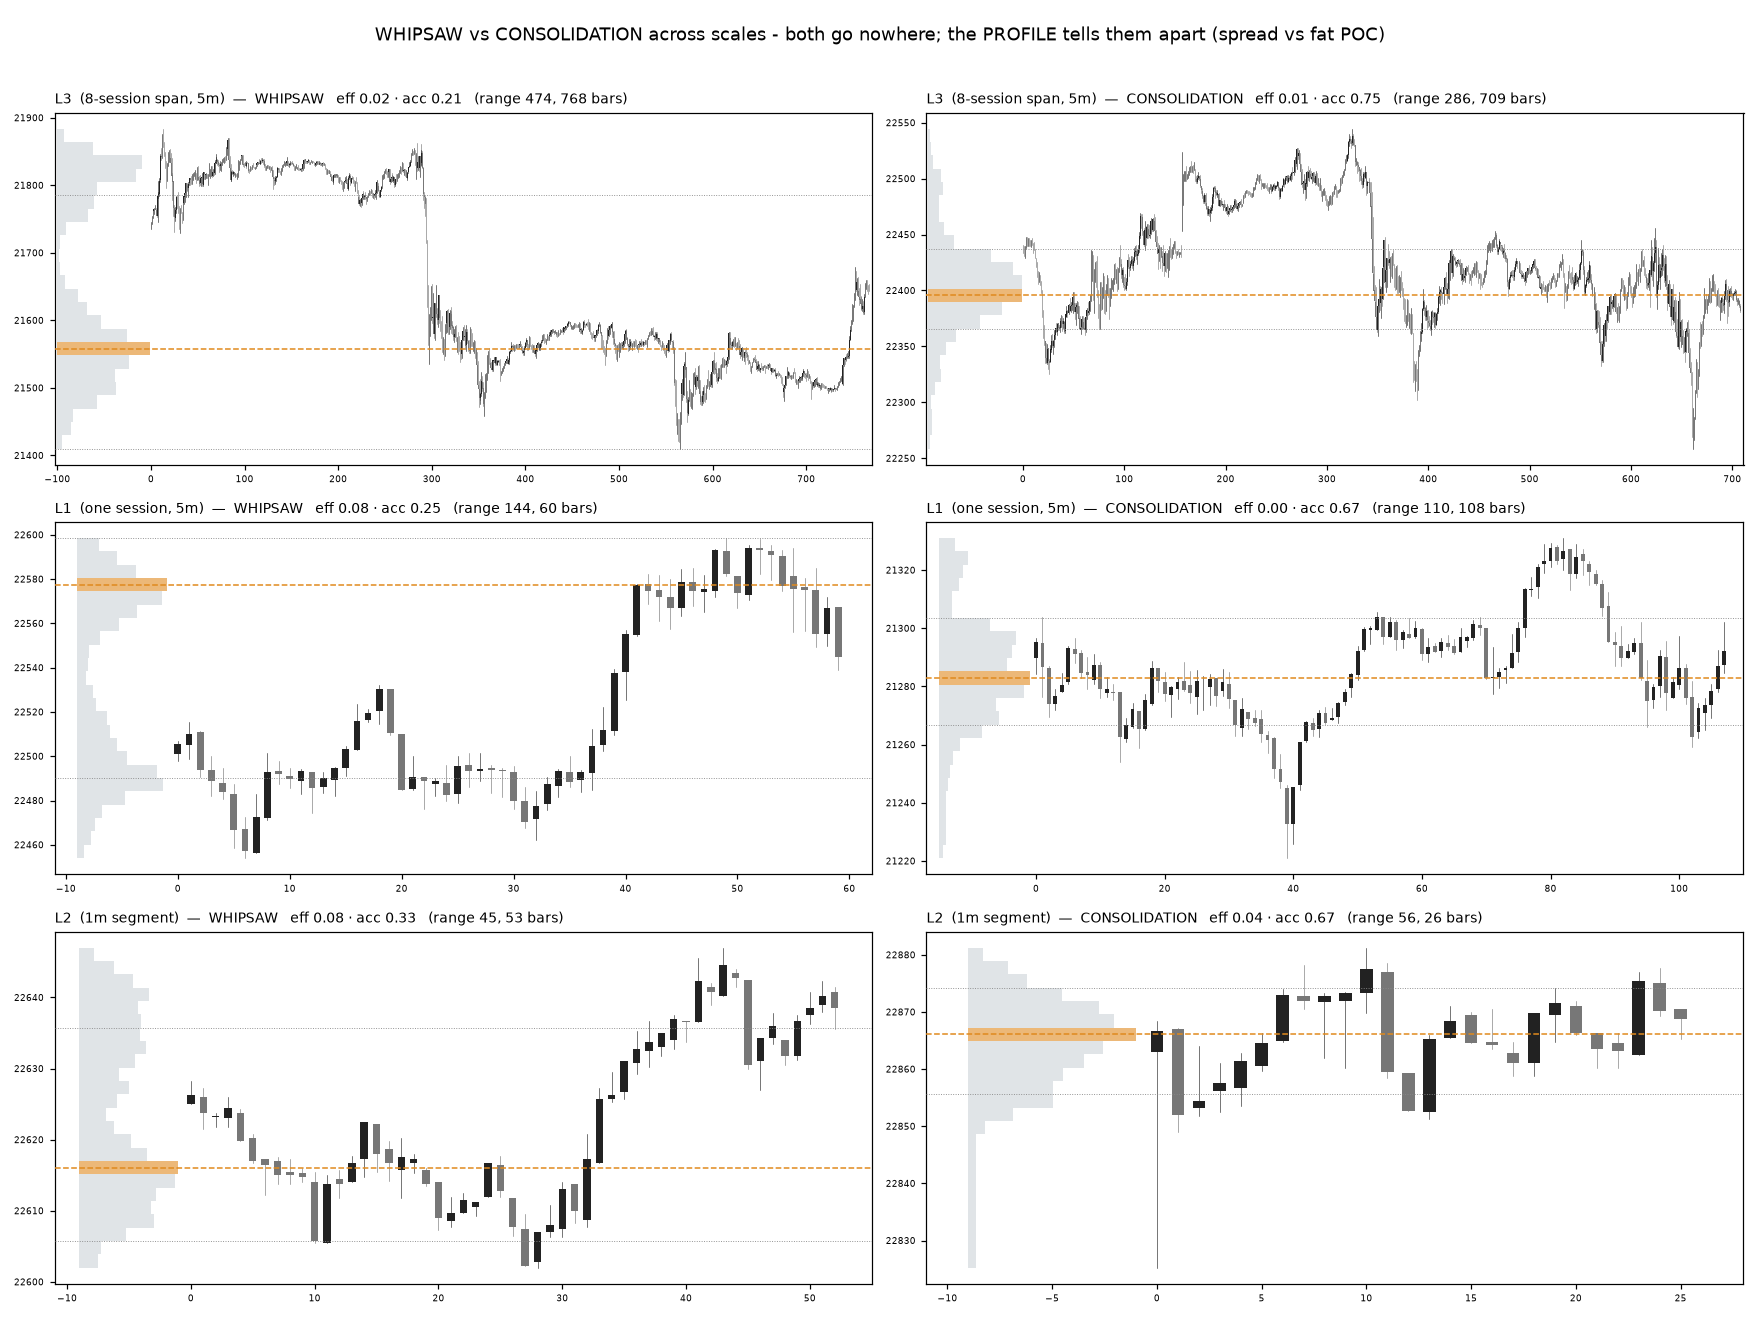
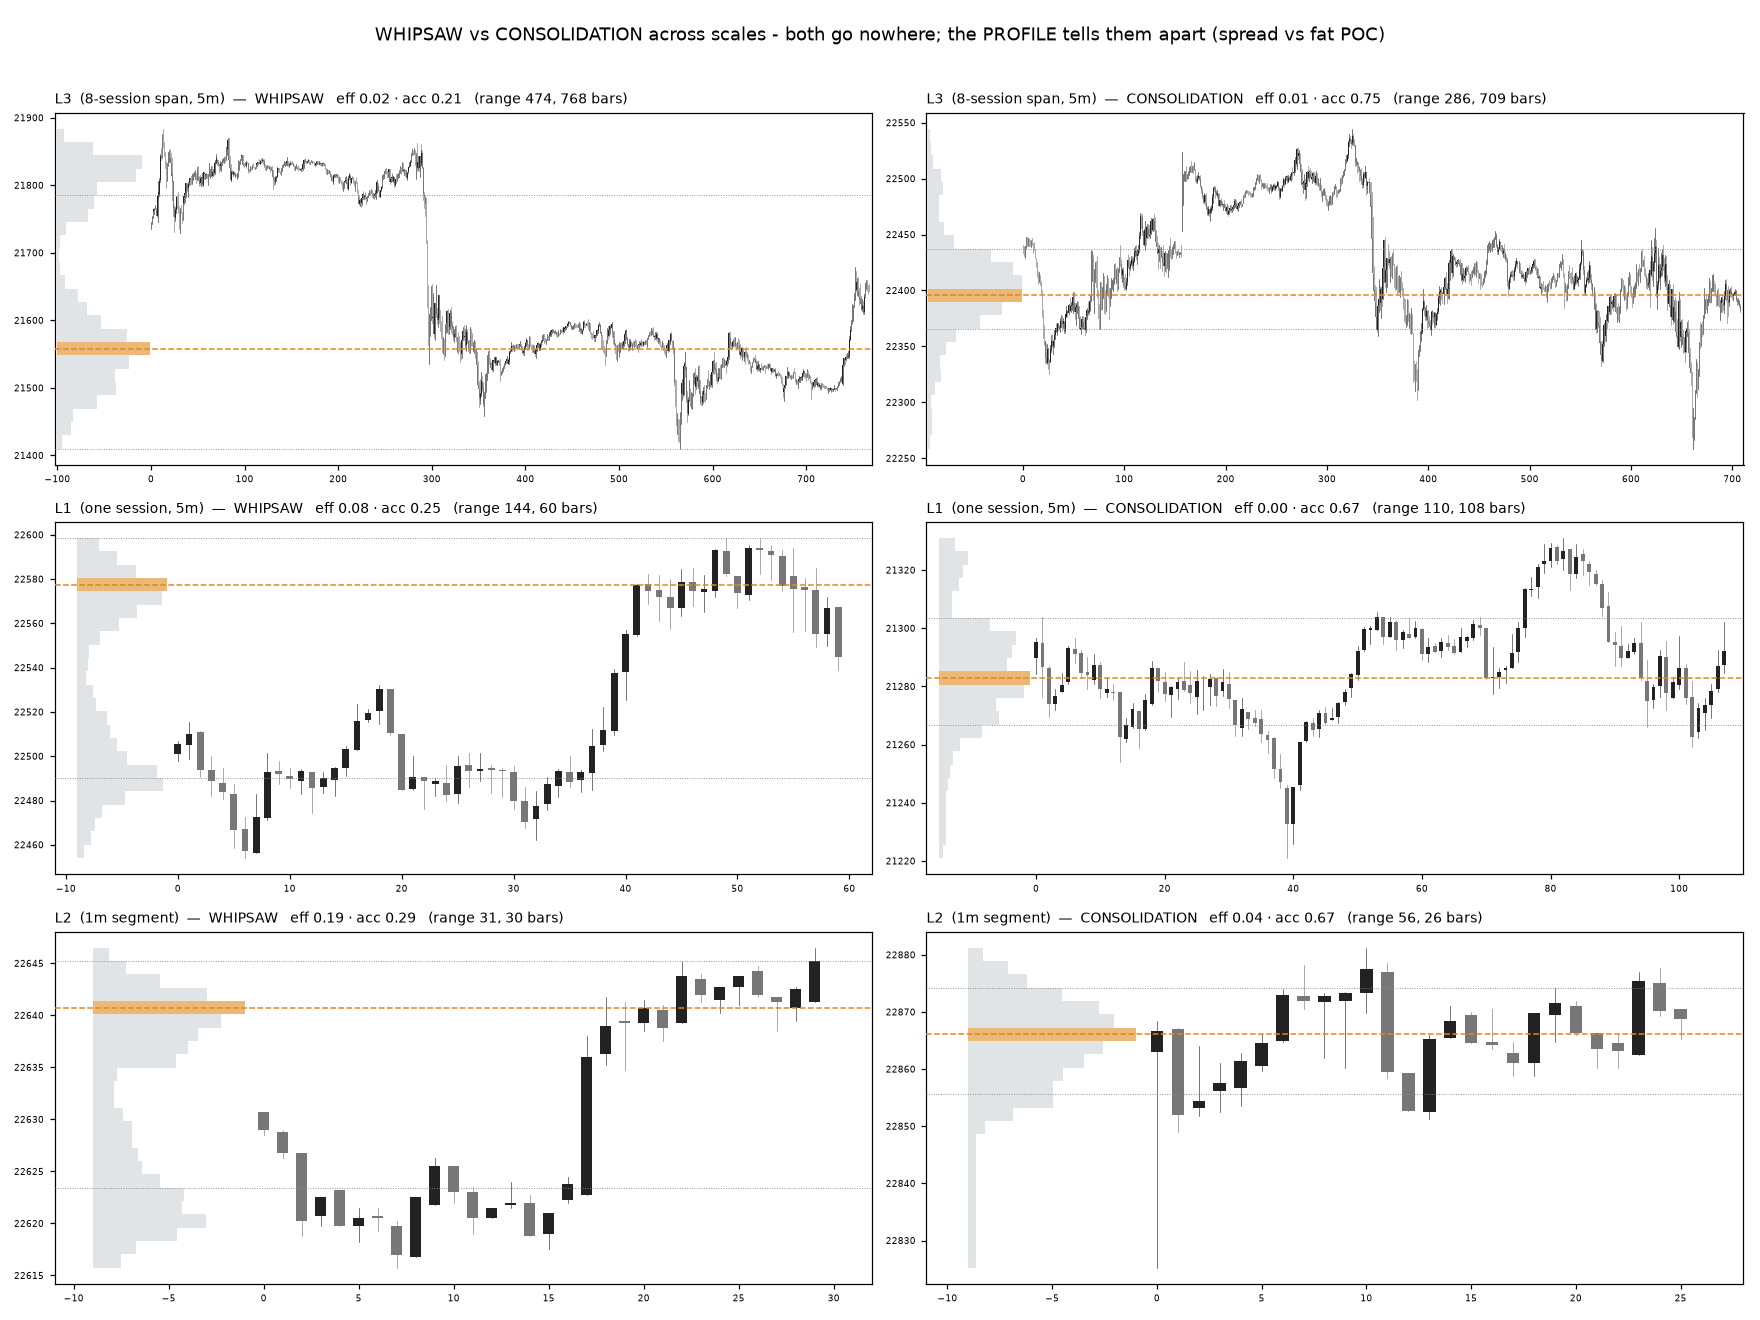
Engine research: add IMPULSE UP vs DOWN examples across scales
state_examples.py now also writes out/impulse_examples.png — a 3x2 grid of real
IMPULSE UP vs IMPULSE DOWN at L3/L1/L2 with volume profiles. Contrast with the
whipsaw/consolidation grid: impulses run high efficiency (0.16-0.96, directional
thrusts) with spread profiles (price travels through, no fat POC), vs the
go-nowhere states at ~0 efficiency. Three of the four states now visible as real
price at every scale.

Changed region(s): [[0.0, 0.7144, 0.4688, 0.9629], [0.0, 0.9629, 0.0312, 0.9939]]

diff --git a/experiments/engine/research/state_examples.py b/experiments/engine/research/state_examples.py
@@ -42,6 +42,34 @@ def pick(cands):
     return whip, cons
 
 
+def pick_impulse(cands):
+    """Among high-progress candidates, the cleanest UP and DOWN thrusts (max efficiency)."""
+    med = float(np.median([g.efficiency for _w, g in cands]))
+    high = [(w, g) for w, g in cands if g.efficiency >= med and g.range > 0]
+    up = max([c for c in high if c[1].direction == "bull"], key=lambda c: c[1].efficiency)
+    dn = max([c for c in high if c[1].direction == "bear"], key=lambda c: c[1].efficiency)
+    return up, dn
+
+
+def merge_impulses(states, gap=12, min_len=8):
+    n = len(states); raw = []; i = 0
+    while i < n:
+        if states[i] and states[i].startswith("IMPULSE"):
+            j = i
+            while j < n and states[j] == states[i]:
+                j += 1
+            raw.append([i, j - 1, states[i]]); i = j
+        else:
+            i += 1
+    m = []
+    for a, b, s in raw:
+        if m and m[-1][2] == s and a - m[-1][1] - 1 <= gap:
+            m[-1][1] = b
+        else:
+            m.append([a, b, s])
+    return [(a, b, s) for a, b, s in m if b - a + 1 >= min_len]
+
+
 def cell(ax, win, g, label):
     pw = max(8, len(win) * 0.13)
     viz.volume_profile(ax, win, g, pw)
@@ -89,6 +117,9 @@ def main():
                 seg = win1.iloc[i:j]
                 l2c.append((seg, grade(seg)))
             i = j
+        for a, b, _x in merge_impulses(st):       # also collect impulse runs
+            if b - a + 1 >= 12:
+                l2c.append((win1.iloc[a:b + 1], grade(win1.iloc[a:b + 1])))
 
     scales = [("L3  (8-session span, 5m)", pick(l3c)),
               ("L1  (one session, 5m)", pick(l1c)),
@@ -104,6 +135,21 @@ def main():
     out = os.path.join(ENGINE, "out", "state_examples.png")
     fig.savefig(out, dpi=110)
     print("wrote", out)
+
+    # --- IMPULSE UP vs IMPULSE DOWN ---
+    imp = [("L3  (8-session span, 5m)", pick_impulse(l3c)),
+           ("L1  (one session, 5m)", pick_impulse(l1c)),
+           ("L2  (1m segment)", pick_impulse(l2c))]
+    fig2, ax2 = plt.subplots(3, 2, figsize=(16, 12))
+    for r, (name, (up, dn)) in enumerate(imp):
+        cell(ax2[r, 0], up[0], up[1], f"{name}  -  IMPULSE UP")
+        cell(ax2[r, 1], dn[0], dn[1], f"{name}  -  IMPULSE DOWN")
+    fig2.suptitle("IMPULSE UP vs IMPULSE DOWN across scales - clean directional thrusts "
+                  "(high efficiency; volume spread through the move, no fat POC)", fontsize=12)
+    fig2.tight_layout(rect=[0, 0, 1, 0.97])
+    out2 = os.path.join(ENGINE, "out", "impulse_examples.png")
+    fig2.savefig(out2, dpi=110)
+    print("wrote", out2)
 
 
 if __name__ == "__main__":